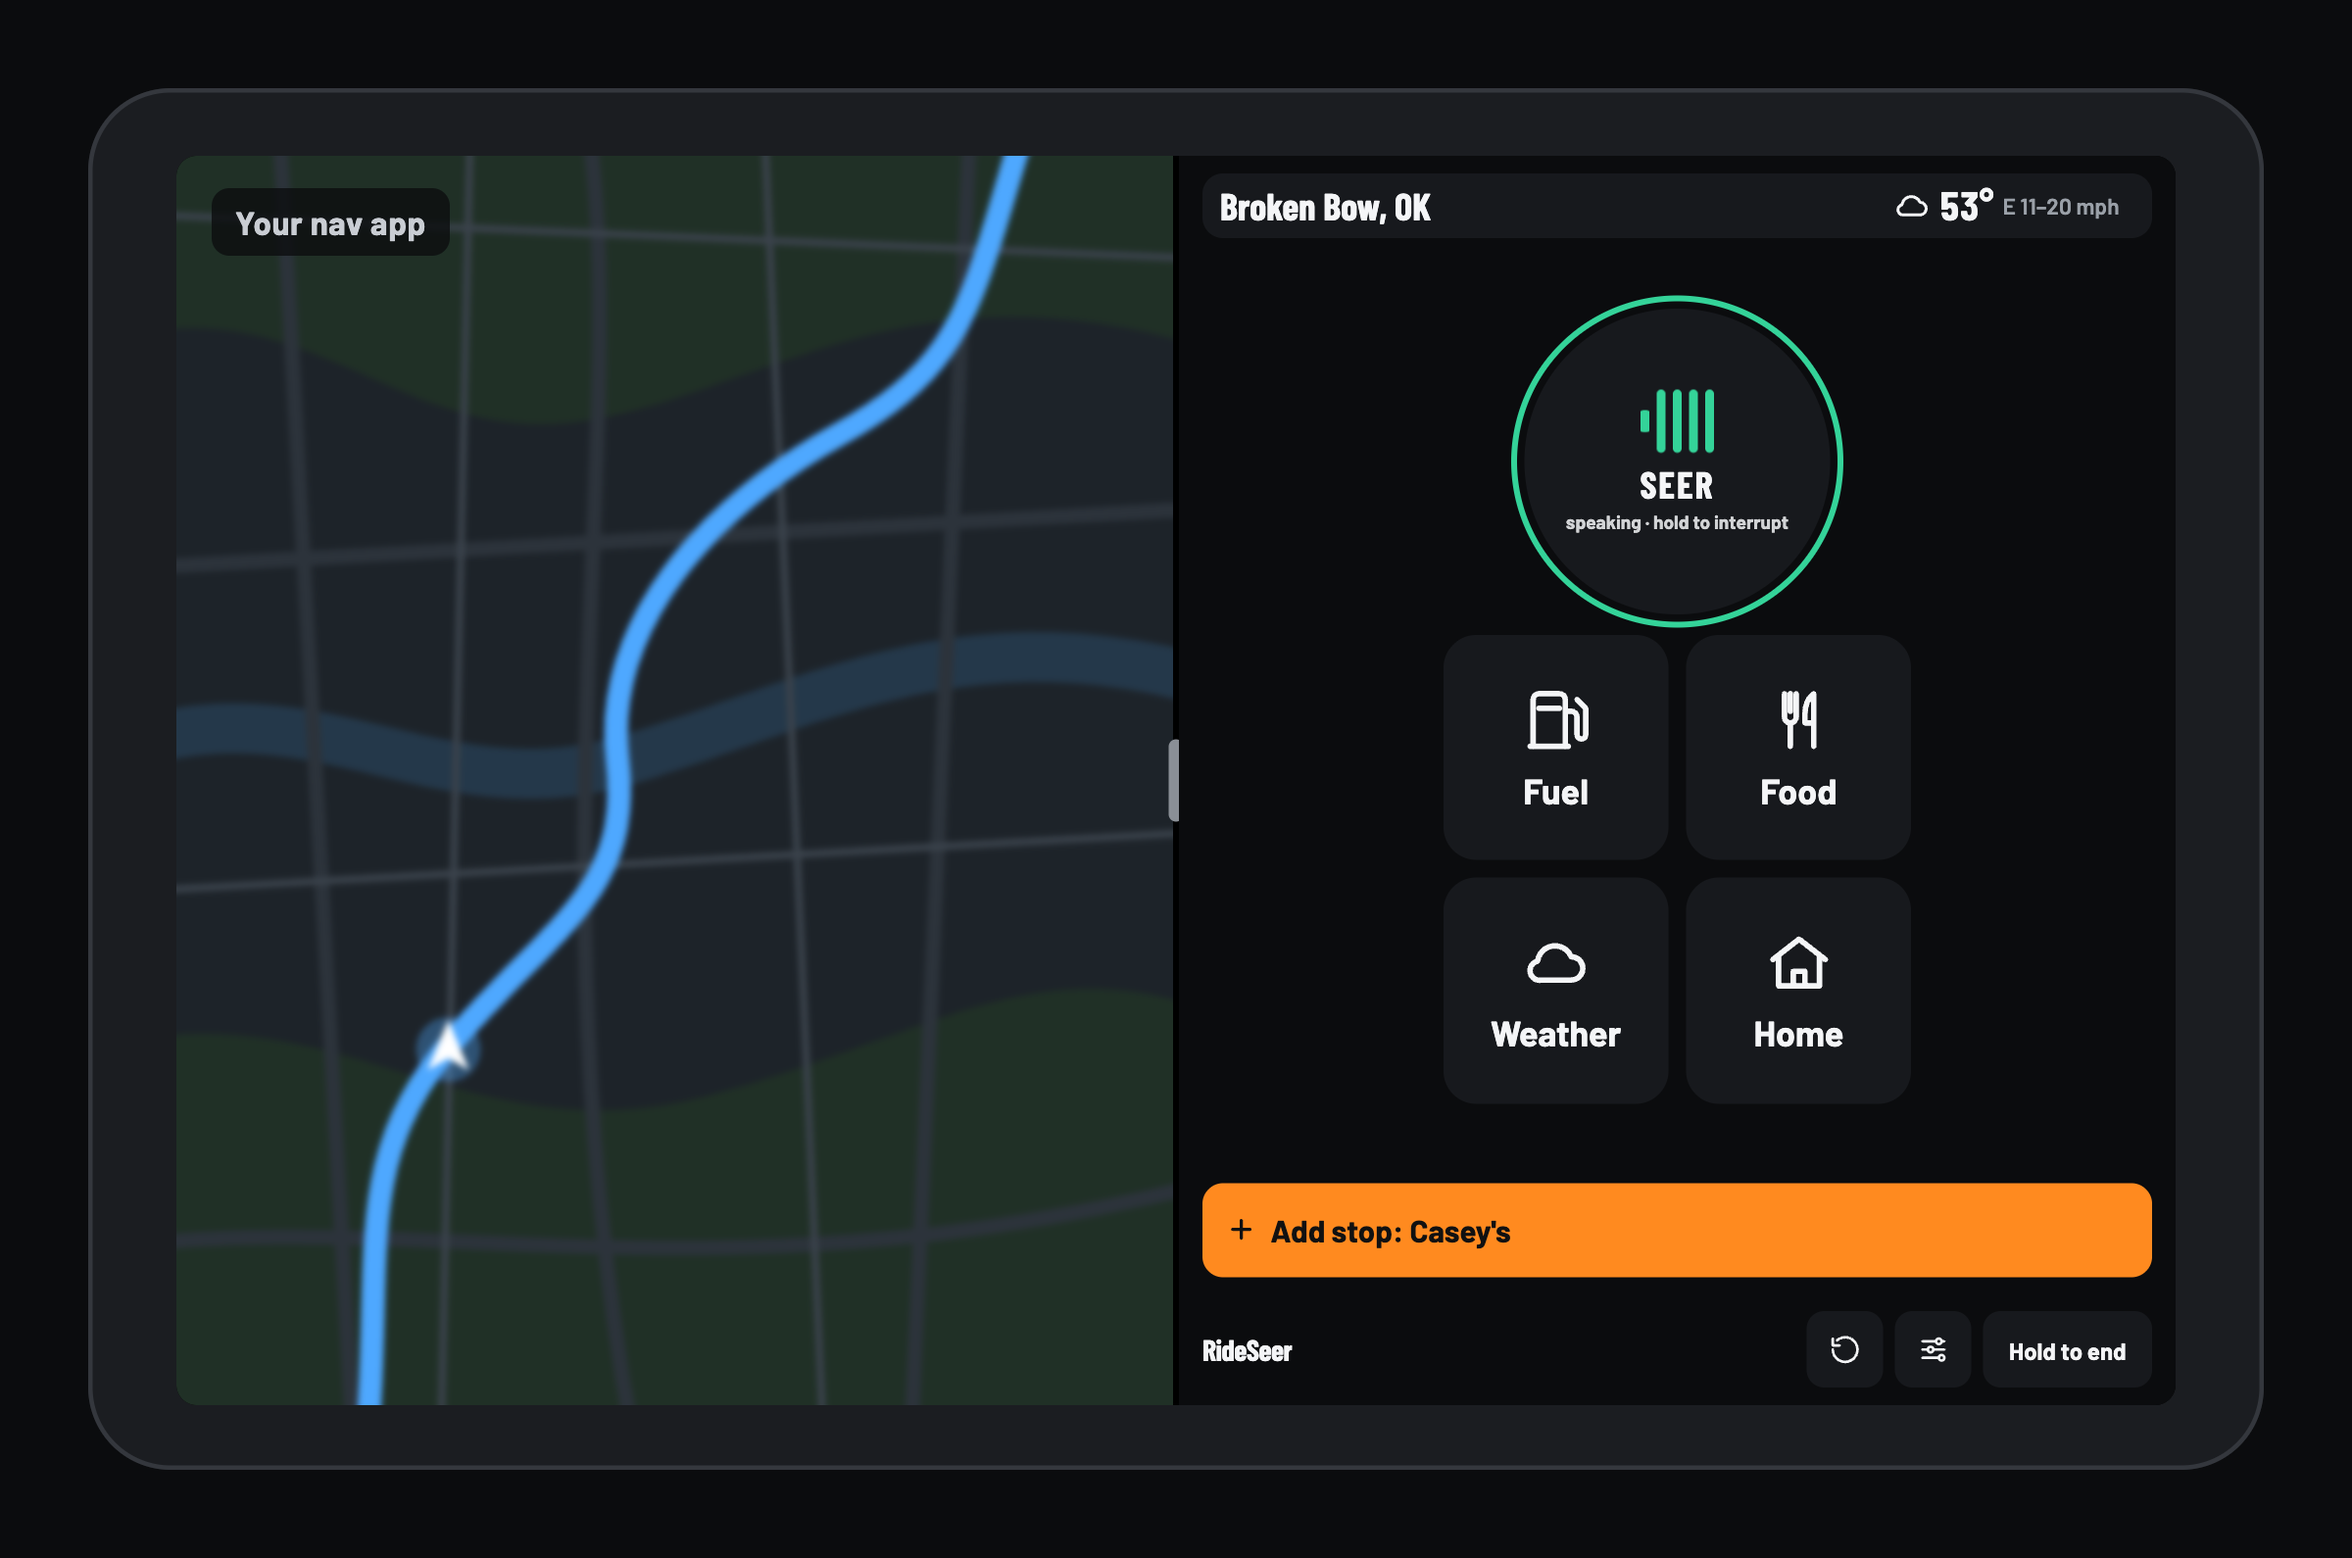
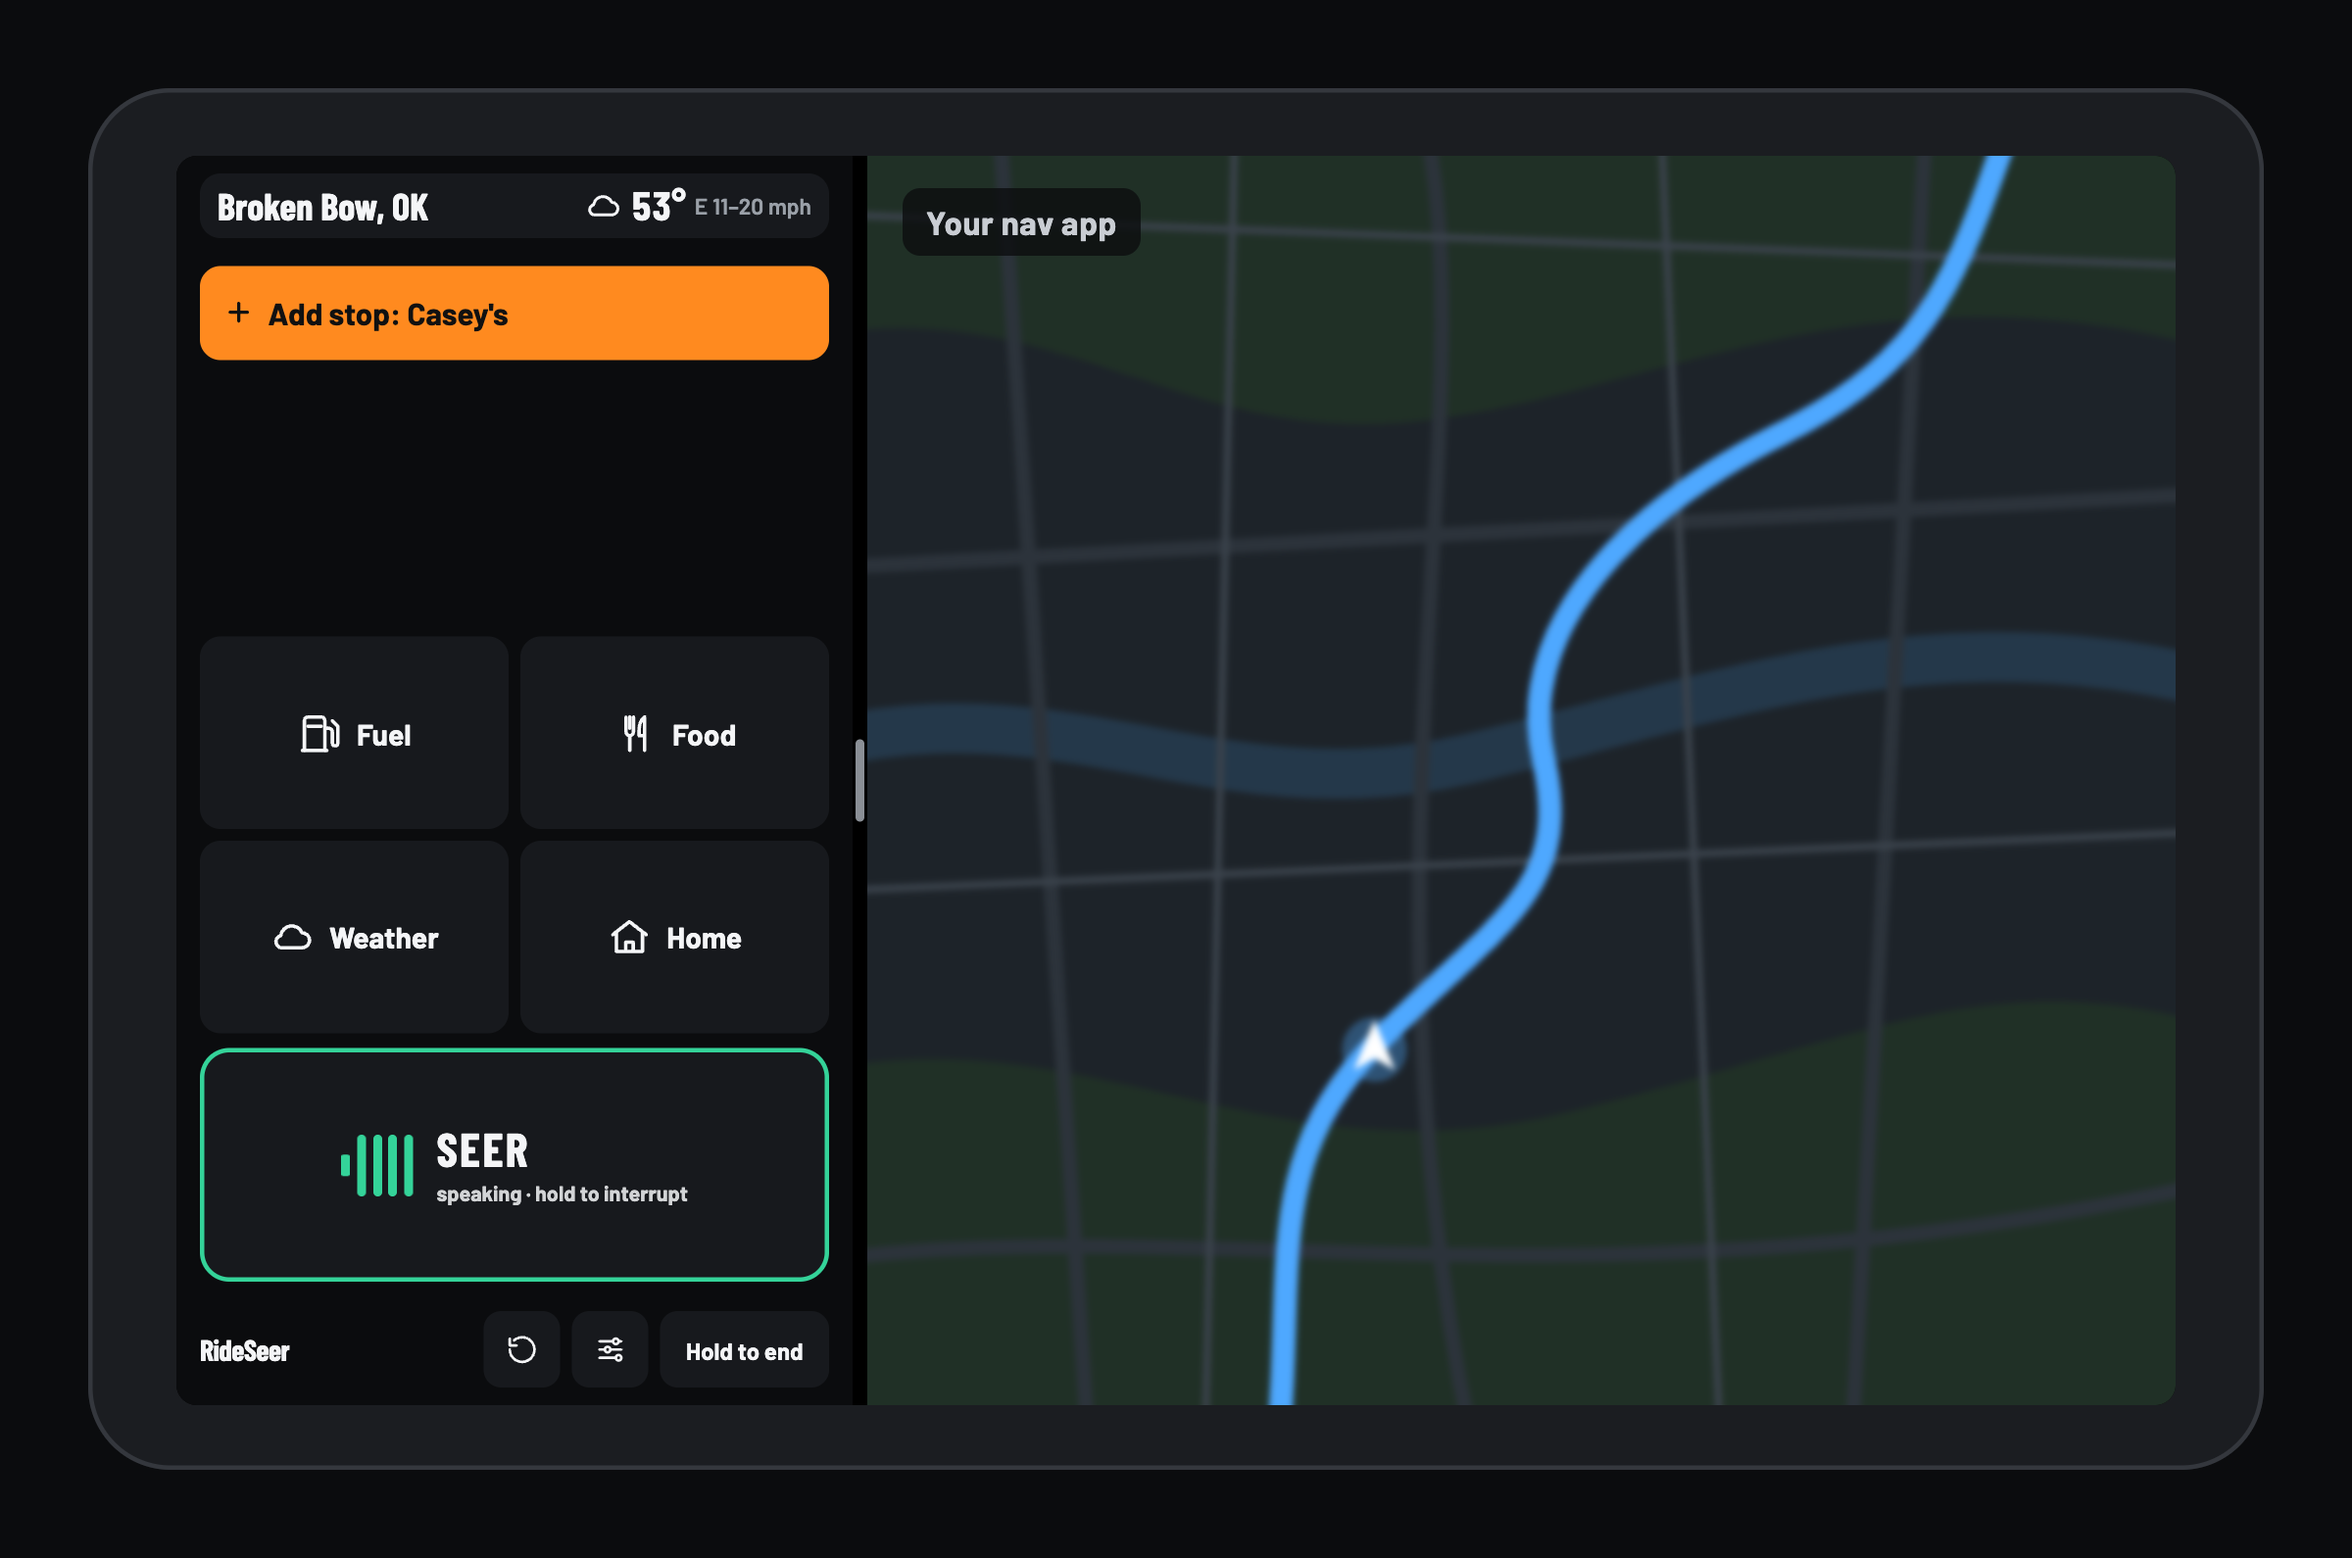
Tablet split image: RideSeer in the left third, nav app in two thirds
Claude-Session: https://claude.ai/code/session_01NbLQSNWrACD9yJ5ces2JBb

diff --git a/index.html b/index.html
@@ -73,7 +73,7 @@
             <p>A helmet button, or a rugged phone's Active key, talks to Seer without touching the screen.</p>
           </div>
         </div>
-        <img class="shot" src="img/split.png" alt="A tablet in split screen: a nav app's map on the left, RideSeer on the right with Seer speaking, the quick buttons and an Add stop button" loading="lazy">
+        <img class="shot" src="img/split.png" alt="A tablet in split screen: RideSeer in the left third with Seer speaking, the quick buttons and an Add stop button; a nav app's map fills the other two thirds" loading="lazy">
       </section>
 
       <section>
